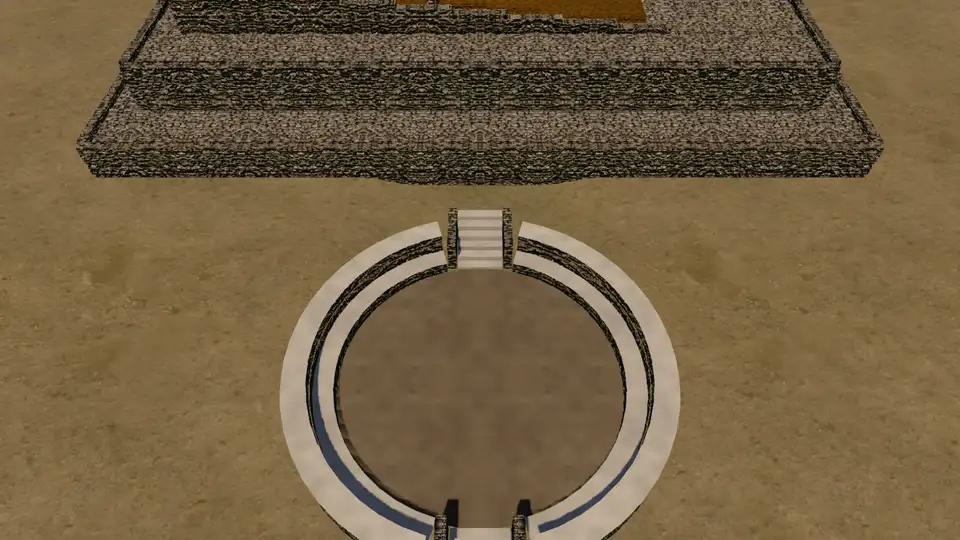
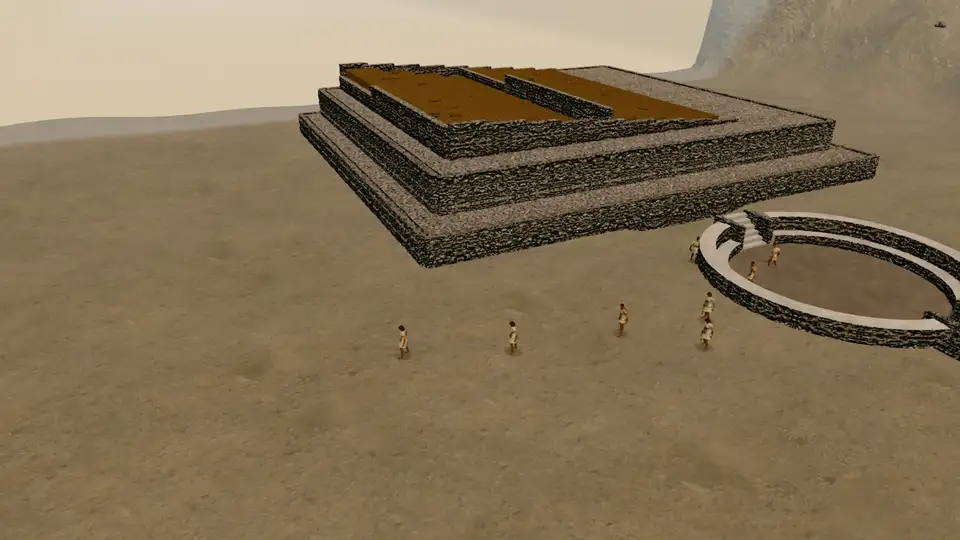
art(caral): human review of the new Caral art
Miguel Amaya reviewed the new art on 2026-11-07:

- The 11 architecture-kit pieces (Áspero's huaca and fishing house, the
  four Pyramid Mayor phases, the small pyramid, the circular plaza, the
  common and elite houses and the fair tent) are approved: each manifest
  records reviewed, reviewer and reviewedAt. A Blender rebuild exports the
  piece unreviewed again; the kit test now checks an approval names who and
  when instead of requiring every piece to be unreviewed.
- The intro, act-card and menu captures are approved after re-framing two:
  the works now show the whole rising platform with a crew at its foot, and
  the drought a dry valley with the river shrunk to pools under a dusty sky,
  the city behind (low cinematic cameras in capture_caral_intro.mjs).

PROVENANCE and the design document record the review; PROVENANCE's kit
runtime notes now describe the phased city, Áspero and the fair tents.

diff --git a/tests/architecture-kit.test.ts b/tests/architecture-kit.test.ts
@@ -36,6 +36,8 @@ interface Manifest {
   asset_id: string;
   wall_height?: number;
   reviewed: boolean;
+  reviewer?: string;
+  reviewedAt?: string;
   confidence: string;
   budget: { LOD0: number; LOD1: number };
   lods: Record<'LOD0' | 'LOD1', { file: string; triangles: number; materials: string[]; bounds: { size: number[] } }>;
@@ -78,7 +80,11 @@ describe('Caral architecture kit', () => {
     for (const id of IDS) {
       const m = manifest(id);
       expect(m.asset_id).toBe(`caral_${id}`);
-      expect(m.reviewed).toBe(false);
+      // The Blender script exports every piece unreviewed; a human approval records who and when.
+      if (m.reviewed) {
+        expect(m.reviewer, id).toBeTruthy();
+        expect(Number.isNaN(Date.parse(m.reviewedAt ?? '')), id).toBe(false);
+      }
       expect(['documented', 'inferred', 'assumed']).toContain(m.confidence);
       expect(m.budget).toEqual({ LOD0, LOD1 });
       expect(m.lods.LOD0.triangles).toBeLessThanOrEqual(LOD0);

diff --git a/PROVENANCE.md b/PROVENANCE.md
@@ -177,7 +177,7 @@ slot is absent (offline / without assets).
   with summit rooms; growth in phases with offerings documented, form and rooms assumed).
 - **Source**: generated in Blender by `scripts/blender/build_caral_architecture_kit.py`; kit scene
   `art-src/blender/scenes/caral_architecture_kit.blend` (Git LFS). Uncompressed exports and per-piece
-  manifests (triangles, materials, bounds, budget, `confidence`, sources, `reviewed: false`) live in
+  manifests (triangles, materials, bounds, budget, `confidence`, sources, review state) live in
   `art-src/blender/exports/caral/architecture/`; the game copies were meshopt-compressed with
   `yarn art:models`.
 - **Content**: project-owned procedural geometry, 8 Principled materials (plaster white/ochre/red,
@@ -189,10 +189,11 @@ slot is absent (offline / without assets).
   LOD0 ≤ 5000 and LOD1 ≤ 1500 triangles per piece.
 - **Runtime**: m1 assembles the city from `src/model/defs/caralCity.ts` and draws it in place of the ruins
   GLB (`caral_site_lod*.glb`), which stays the fallback while the kit loads and then only keeps its
-  clickable heritage nodes (hidden); pathing uses the monuments' and the kit houses' blockers. The phase models are wired for act III of
-  `docs/design/caral-model-mission.md` (`CaralCity.setMayorPhase`); m1 shows the city in use. The Áspero
-  house and the fair tent ship as pieces only (no Áspero on the map yet; tents belong to the festive
-  calendar, which m1 does not model).
+  clickable heritage nodes (hidden); pathing uses the monuments' and the kit houses' blockers. Act III of
+  `docs/design/caral-model-mission.md` raises the Pyramid Mayor through its phase models
+  (`Game.setSitePhase`, `CaralCity.setMayorPhase`), the other monuments appear with their phase, Áspero
+  (the huaca and six fishing houses) stands on the shore from act I, and the fair tents go up once the
+  city is in use.
 - **Confidence** (per piece in the manifests; evidence in `docs/historia/campanas/caral.md` and
   `docs/historia/civilizaciones/caral.md`): stepped superposed platforms, shicra fill, stone retaining
   walls, painted plaster, sunken circular plazas, quincha houses, cotton nets and gourd floats and fair
@@ -200,7 +201,9 @@ slot is absent (offline / without assets).
   platform count and proportions, the summit enclosure, the side walls of the stairs and the parapets,
   the set stone left visible at the foot of each terrace (a reading aid; the documented walls are
   plastered), roofs, the net rack and the tent's frame and cover are assumed. No scaffolding is modelled because none is attested. The models are artistic
-  reconstructions, not surveys, and stay `reviewed: false` until a human review.
+  reconstructions, not surveys. Every piece was exported `reviewed: false` and approved by a human
+  review on 2026-11-07 (Miguel Amaya; `reviewer` and `reviewedAt` in each manifest). A rebuild exports
+  the piece unreviewed again.
 
 ### Caral intro and act-card images (in-engine recreations)
 
@@ -208,8 +211,12 @@ slot is absent (offline / without assets).
   WebP q58, ~160 KB in total).
 - **Source**: captured from the game itself by `scripts/capture_caral_intro.mjs`. Each m1 scene is
   staged through the debug harness (construction phase, drought, worker orders), rendered without the HUD
-  at 1600x900 and resized with `sharp`. Regenerate them with `node scripts/capture_caral_intro.mjs`
-  after art changes.
+  at 1600x900 and resized with `sharp`; the works and the drought use a low cinematic camera. Regenerate
+  them with `node scripts/capture_caral_intro.mjs` (one with `--only=ID`) after art changes.
+- **Runtime (menu)**: the menu reuses `intro-ciudad` as the pre-Inca campaign card and `intro-aspero` as
+  m1's art in the "Tu senda" card and the briefing, captioned as an engine recreation.
+- **Review**: approved by a human review on 2026-11-07 (Miguel Amaya), after re-framing the works and
+  the drought.
 - **Content**: project-owned game renders (terrain, architecture and vegetation kits listed above). They
   are recreations of the game's own scenes: never historical photographs, and not Blender renders (so not
   in `src/art/manifest.json`).

diff --git a/docs/design/caral-model-mission.md b/docs/design/caral-model-mission.md
@@ -173,8 +173,8 @@ bench runs without ground cover).
 3. Late-period details of Act IV (stone houses, a little maize) are not shown.
 4. The Act III fire offering is staged at the plaza, but the burial of one phase under the next is not
    shown on its own, and an empty storehouse does not pause construction.
-5. The new art (`huaca_idolos`, the phase models, the intro captures) waits for human review
-   (`reviewed: false` in the manifest).
+5. ~~Human review of the new art~~ Done: the architecture kit and the intro and menu captures were
+   approved on 2026-11-07.
 6. The other campaigns follow this pattern later; the m9 scripted playtest is known to fail meanwhile.
 
 ## Certainty labelling
